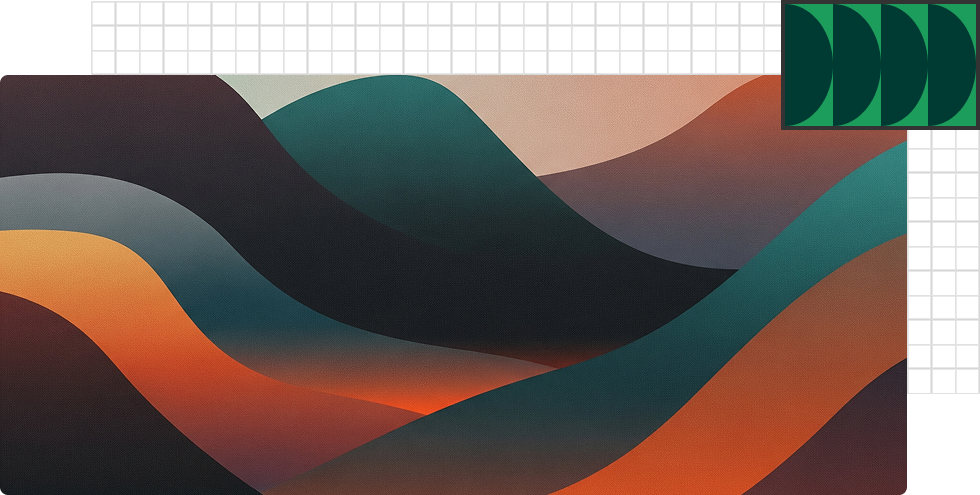
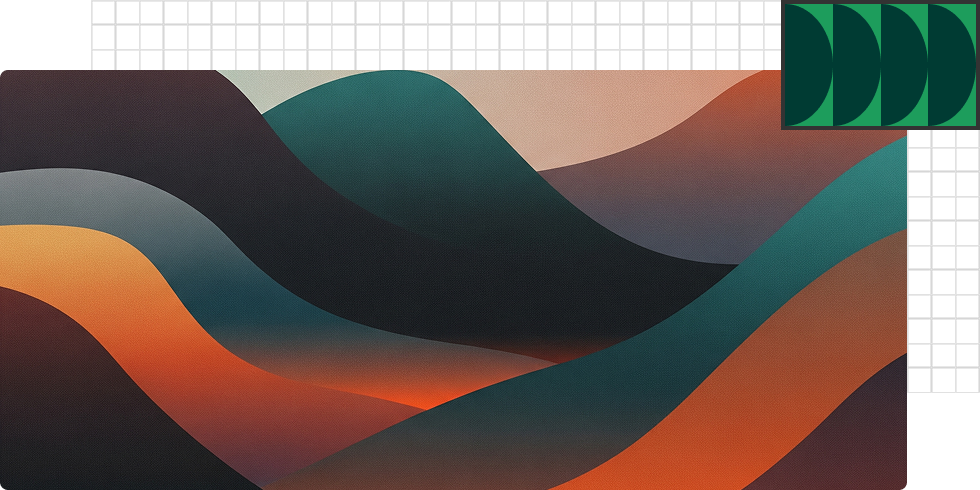
Stylized the main article
Set up the mobile version of the main article

diff --git a/css/style.css b/css/style.css
@@ -6,6 +6,9 @@ html,
 body {
     margin: 0;
     padding: 0;
+}
+
+body {
     font-family: 'Source Sans 3', sans-serif;
 }
 
@@ -16,9 +19,16 @@ body {
 .site-header {
     position: sticky;
     top: 0;
-    padding: 0.5em 1em;
+    padding: 0.5em;
+    padding-inline: 1em;
     background-color: white;
     border-bottom: 1px solid #cacaca;
+}
+
+.site-header .container{
+    display: flex;
+    align-items: center;
+    justify-content: space-between;
 }
 
 .logo-img {
@@ -75,7 +85,7 @@ li {
         display: flex;
         align-items: center;
         justify-content: space-between;
-        padding: 0.5em 1.5em;
+        padding-inline: 1.5em;
     }
 
     .nav-toggle {
@@ -84,16 +94,14 @@ li {
 
     #main-nav {
         position: relative;
-        max-height: 30px;
+        max-height: none;
         overflow: auto;
         display: flex;
         width: fit-content;
 
     }
 
-
     ul {
-        width: fit-content;
         display: flex;
         gap: 1em;
     }
@@ -108,34 +116,59 @@ li {
 
 
 /* =================
-    Main Element Layout 
+    Main Elements Layout 
    ================= */
 
 main {
-    padding: 1em;
-    margin: 0 auto;
-    max-width: 980px;
+    
 }
 
-.container {
+.main-article {
     width: 100%;
-    margin: 0 auto;
-    max-width: 980px;
-    display: flex;
-    align-items: center;
-    justify-content: space-between;
+    padding: 5rem 1rem 1rem 1rem;
+    background: white url("../images/blog-image-hero.png");
+    background-size: cover;
 }
 
+
+
+.main-article-content {
+    color: white;
+}
 
 
 @media (min-width: 480px) {
+
+    .container {
+        width: 100%;
+        margin: 0 auto;
+        max-width: 980px;
+    }
+
+    .main-article {
+        height: 490px;
+        background: white url("../images/img-main.png");
+    }
 
 }
 
 
 
 /* =================
-    Article Card 
+    Main Article Card 
+   ================= */
+
+
+
+
+
+
+
+
+
+
+/* =================
+    Soon Article Cards 
    ================= */
 
 
@@ -146,6 +179,33 @@ main {
 /* =================
     Typography 
    ================= */
+
+main a {
+    text-decoration: none;
+}
+
+h2 {
+    font-family: 'Inter', sans-serif;
+    font-size: 2rem;
+    line-height: 1.25;
+    margin: 0.25em 0;
+}
+
+.main-article-content h2 {
+    font-family: 'Playfair', serif;
+}
+
+time {
+    text-transform: uppercase;
+    font-family: 'Inter', sans-serif;
+    font-size: 0.75rem;
+    letter-spacing: 1.5;
+}
+
+p {
+    font-size: 1rem;
+    line-height: 1.625;
+}
 
 
 

diff --git a/index.html b/index.html
@@ -36,8 +36,9 @@
                 </nav>
             </div>
         </header>
-        <!-- Main article -->
-        <main>
+        
+        <main class="container">
+             <!-- Main article -->
             <section class="main-article">
                 <a href=""
                 class="main"
